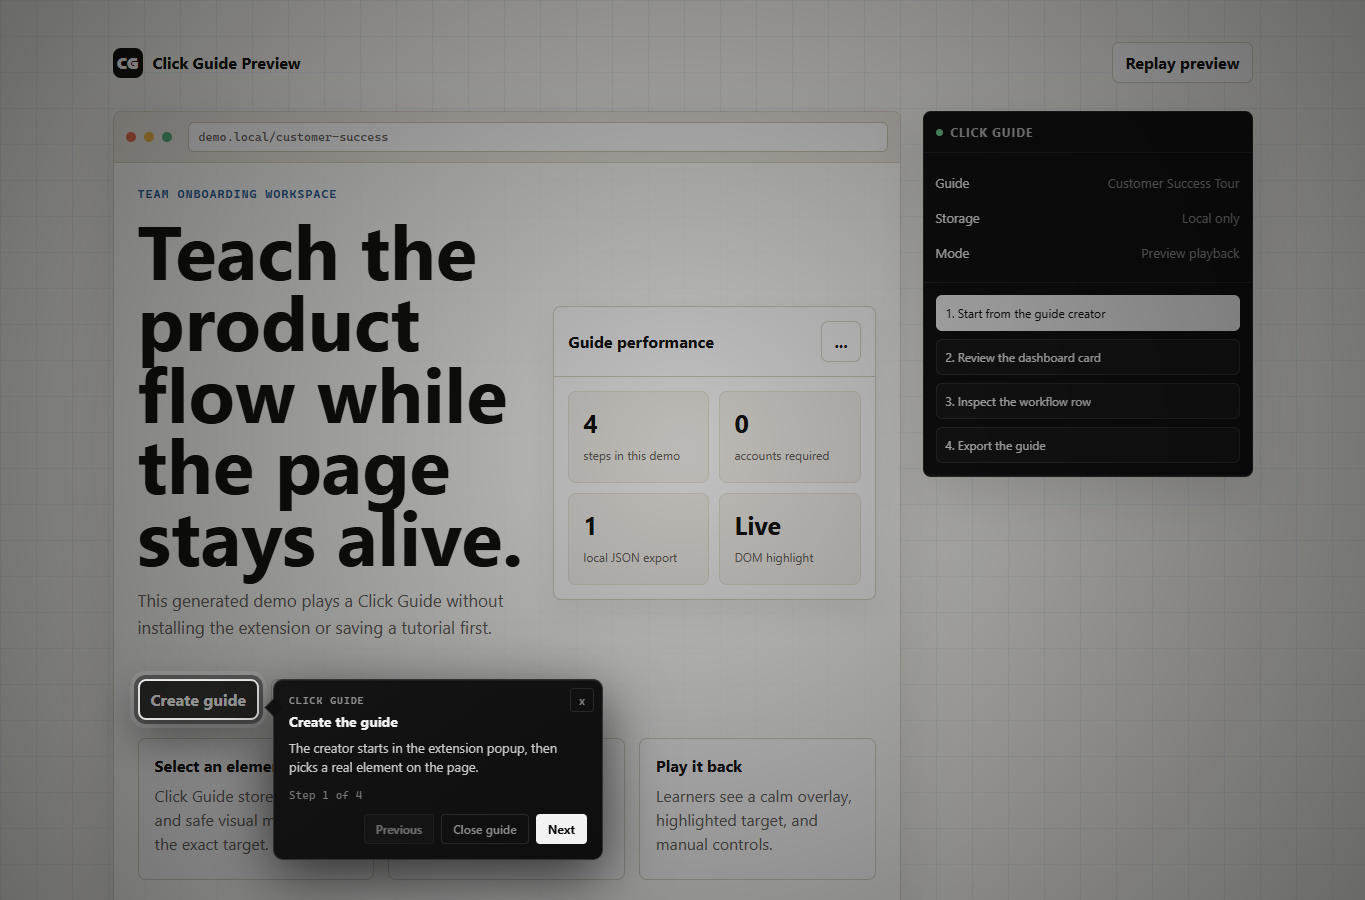
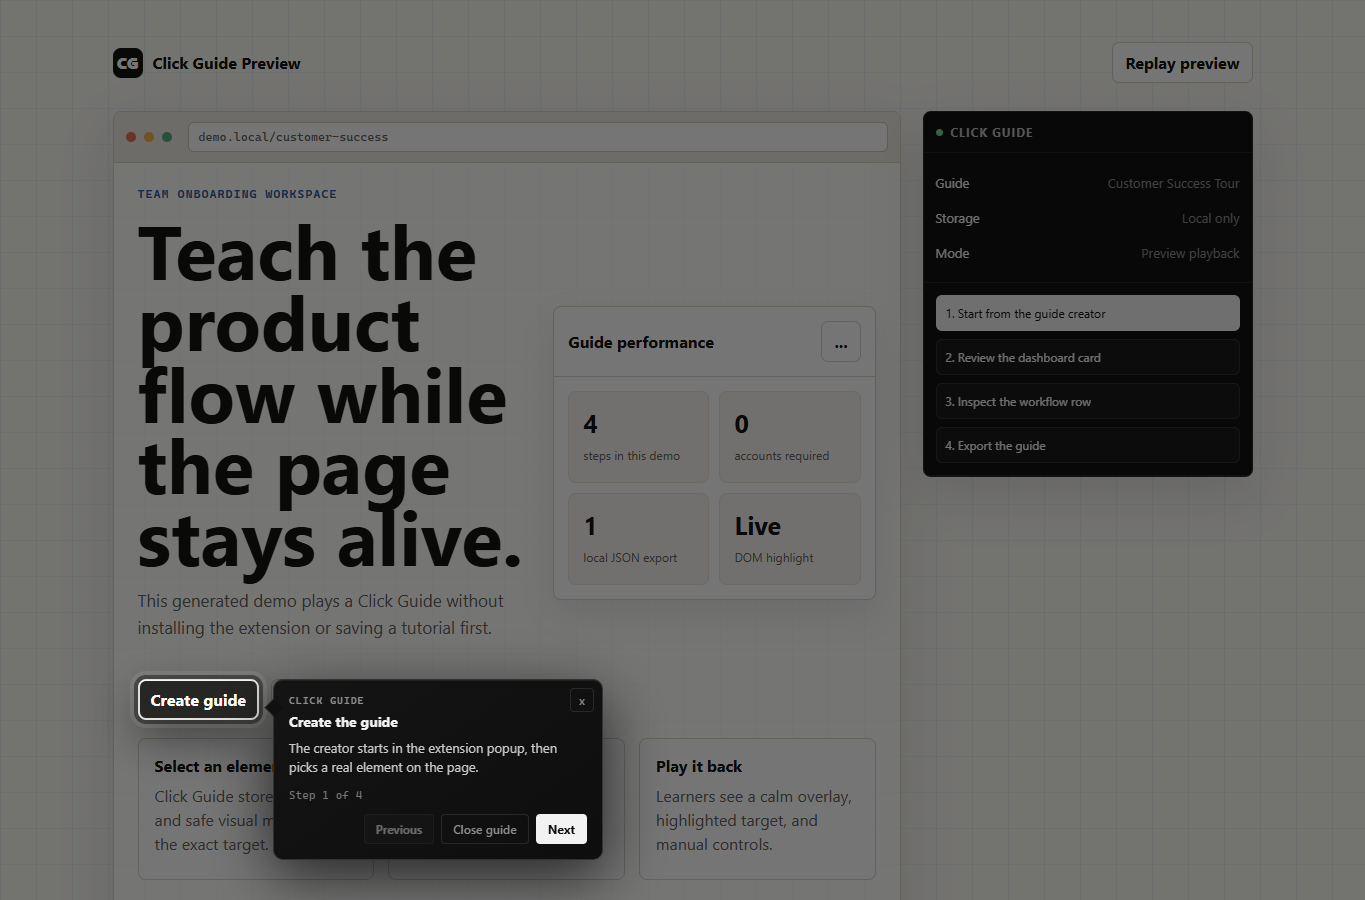
Keep guide target clear while dimming

diff --git a/contentScript.js b/contentScript.js
@@ -352,6 +352,17 @@
     layer.querySelectorAll(".click-guide-target-highlight, #click-guide-popup").forEach((item) => item.remove());
   }
 
+  function positionDimLayer(layer, rect, rectFallback) {
+    const dimLayer = layer.querySelector("#click-guide-dim-layer");
+    if (!dimLayer) return;
+    const left = rectFallback ? rect.documentX : rect.left + window.scrollX;
+    const top = rectFallback ? rect.documentY : rect.top + window.scrollY;
+    dimLayer.style.left = `${left}px`;
+    dimLayer.style.top = `${top}px`;
+    dimLayer.style.width = `${Math.max(8, rect.width)}px`;
+    dimLayer.style.height = `${Math.max(8, rect.height)}px`;
+  }
+
   function hideSelectionToast() {
     if (selectionToastTimer) clearTimeout(selectionToastTimer);
     selectionToastTimer = null;
@@ -591,6 +602,7 @@
       ? resolvedTarget.element.getBoundingClientRect()
       : getFallbackRect(step);
     preparePlaybackLayer(layer, Boolean(step.playback?.dimPage));
+    positionDimLayer(layer, rect, resolvedTarget.rectFallback);
     if (step.playback?.highlightTarget !== false) {
       const highlight = document.createElement("div");
       highlight.className = "click-guide-target-highlight";

diff --git a/contentStyle.css b/contentStyle.css
@@ -14,9 +14,10 @@
 }
 
 #click-guide-dim-layer {
-  position: fixed;
-  inset: 0;
-  background: radial-gradient(circle at center, rgba(0, 0, 0, 0.24), rgba(0, 0, 0, 0.58));
+  position: absolute;
+  border-radius: 8px;
+  background: transparent;
+  box-shadow: 0 0 0 9999px rgba(0, 0, 0, 0.54);
   pointer-events: none;
   animation: click-guide-fade-in 160ms ease-out both;
 }